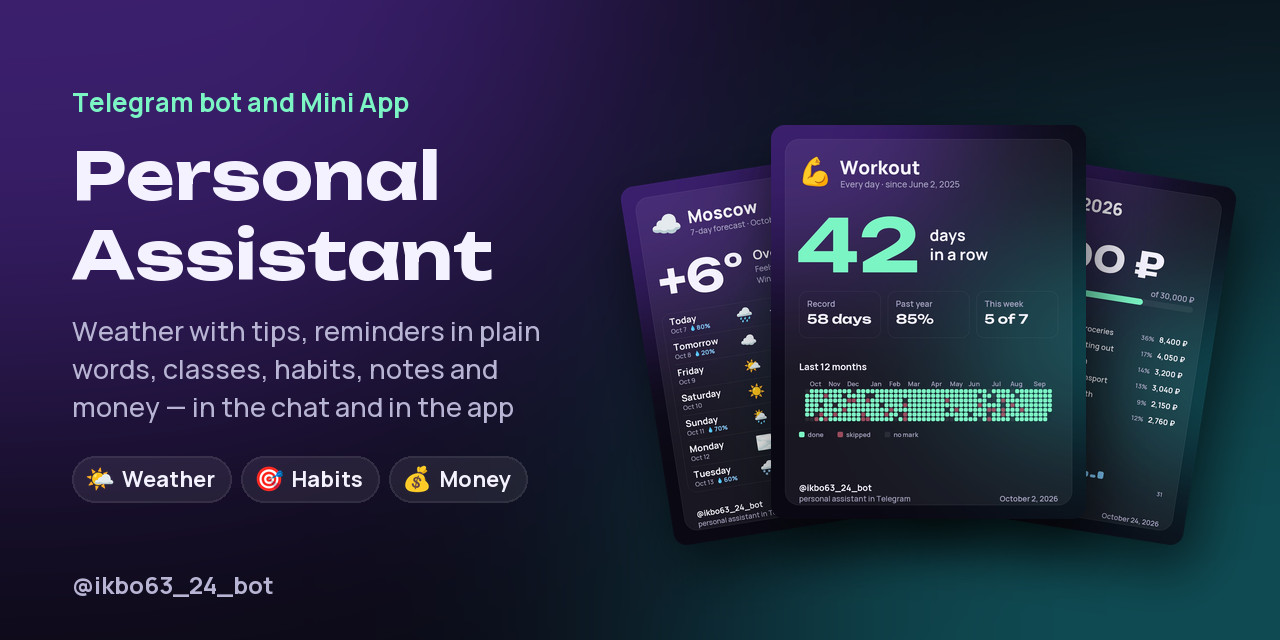
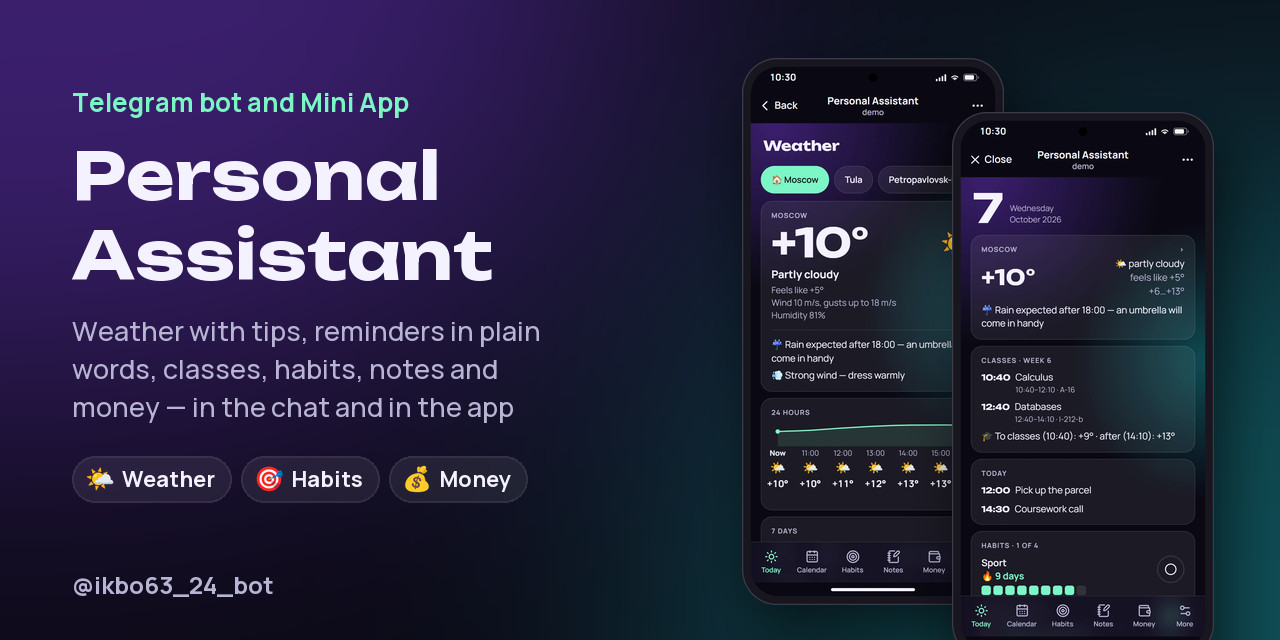
feat: обложка с экранами приложения

Changed region(s): [[0.4688, 0.0938, 0.9688, 1.0], [0.7188, 0.0938, 0.7812, 0.125]]

diff --git a/scripts/cover.py b/scripts/cover.py
@@ -5,10 +5,13 @@ Usage:  uv run python scripts/cover.py --lang ru --out docs/images/cover.jpg
         uv run python scripts/cover.py --favicon webapp/demo/public/favicon.svg
 
 The cover opens the README and is the link preview of the repository and of the demo: what the
-project is, its name, what it does and three chips on the left; on the right, the bot's own
-pictures from docs/images — the week's forecast, a habit card and the month's report — fanned out.
-Only fixed words and the made-up data of those pictures. It is drawn like them, with card_kit's
-fonts, colours and emoji and the BASIC layout, so the same arguments always give the same file.
+project is, its name, what it does and three chips on the left; on the right, two phones with the
+demo's dark screens from docs/images/screens — «Погода» behind, «Сегодня» in front — in the frame
+of the README's grids (variant A). Until those screens are drawn, the bot's own pictures from
+docs/images — the week's forecast, a habit card and the month's report — fan out there instead
+(variant B); `--variant a|b` picks one. Only fixed words and made-up data. It is drawn like the
+bot's pictures, with card_kit's fonts, colours and emoji and the BASIC layout, so the same
+arguments always give the same file.
 
 The icon is a mint speech bubble on the dark «Вечерний», made of rounded rectangles and circles
 only, so the PNG drawn by Pillow and the SVG of the demo's tab are one sign.
@@ -18,6 +21,7 @@ from __future__ import annotations
 
 import argparse
 import io
+import sys
 from dataclasses import dataclass
 from pathlib import Path
 
@@ -25,6 +29,13 @@ from PIL import Image, ImageDraw, ImageFilter, ImageFont
 
 from assistant.core.habit_style import COLORS
 from assistant.core.services import card_kit as kit
+
+# Run as a file, Python looks for imports in scripts/ itself; the phone's frame is in the package
+# scripts.showcase, found from the repository's root.
+if __name__ == "__main__":
+    sys.path.insert(0, str(Path(__file__).resolve().parents[1]))
+
+from scripts.showcase import compose  # noqa: E402
 
 IMAGES = Path(__file__).resolve().parents[1] / "docs" / "images"
 WIDTH, HEIGHT = 1280, 640
@@ -36,8 +47,13 @@ CHIP_LINE = (255, 255, 255, 34)
 SHADOW = (0, 0, 0, 150)
 BOT = "ikbo63_24_bot"
 
-# The bot's pictures, back to front: (name in docs/images, centre, degrees counterclockwise,
-# width). Left to right they follow the chips: the weather, a habit, the money.
+# Variant A: the demo's dark screens in phones, back to front: (screen, top left corner). Each
+# phone is PHONE_WIDTH wide and as tall as its frame makes it; the front one runs off the bottom.
+PHONES = (("weather", (742, 58)), ("today", (952, 112)))
+PHONE_WIDTH = 262
+
+# Variant B: the bot's pictures, back to front: (name in docs/images, centre, degrees
+# counterclockwise, width). Left to right they follow the chips: the weather, a habit, the money.
 FAN = (
     ("forecast-card", (790, 345), 9, 290),
     ("money-report", (1066, 345), -9, 290),
@@ -69,8 +85,8 @@ WORDS = {
     "ru": Words(
         over="Telegram-бот и Mini App",
         title=("Личный", "помощник"),
-        # The no-break space keeps the dash off the start of a line.
-        tagline="Погода с советами, напоминания фразой, пары, привычки, заметки и деньги"
+        # No-break spaces keep the dash off the start of a line and «и» off the end of one.
+        tagline="Погода с советами, напоминания фразой, пары, привычки, заметки и\u00a0деньги"
         "\u00a0— в чате и в приложении",
         chips=(("🌤", "Погода"), ("🎯", "Привычки"), ("💰", "Деньги")),
     ),
@@ -166,22 +182,47 @@ def turned(name: str, angle: float, width: int) -> Image.Image:
     return picture.resize(size, Image.Resampling.LANCZOS)
 
 
+def shadowed(cover: Image.Image, picture: Image.Image, x: int, y: int) -> None:
+    """`picture` laid on the cover at (x, y) over a soft shadow of its own shape."""
+    shadow = Image.new("RGBA", cover.size, (0, 0, 0, 0))
+    shadow.paste(SHADOW, (x + 10, y + 24), picture.getchannel("A"))
+    cover.alpha_composite(shadow.filter(ImageFilter.GaussianBlur(26)))
+    cover.alpha_composite(picture, (x, y))
+
+
 def fanned(cover: Image.Image, lang: str) -> None:
-    """The bot's pictures fanned out on the right, each with a soft shadow."""
-    suffix = "" if lang == "ru" else ".en"
+    """Variant B: the bot's pictures fanned out on the right."""
     for name, (centre_x, centre_y), angle, width in FAN:
-        picture = turned(f"{name}{suffix}.jpg", angle, width)
-        x, y = centre_x - picture.width // 2, centre_y - picture.height // 2
-        shadow = Image.new("RGBA", cover.size, (0, 0, 0, 0))
-        shadow.paste(SHADOW, (x + 10, y + 24), picture.getchannel("A"))
-        cover.alpha_composite(shadow.filter(ImageFilter.GaussianBlur(26)))
-        cover.alpha_composite(picture, (x, y))
+        picture = turned(f"{name}{compose.suffix(lang)}.jpg", angle, width)
+        shadowed(cover, picture, centre_x - picture.width // 2, centre_y - picture.height // 2)
 
 
-def draw(lang: str) -> bytes:
-    """The cover in `lang`, a JPEG with full colour (no chroma subsampling)."""
+def dark_screens(lang: str) -> list[Path]:
+    """The demo's dark screens variant A shows, in the order of PHONES."""
+    return [IMAGES / compose.screen_file(name, "dark", lang) for name, _ in PHONES]
+
+
+def phones(cover: Image.Image, lang: str) -> None:
+    """Variant A: the demo's dark screens on the right, in the phone of the README's grids."""
+    for path, (_, (x, y)) in zip(dark_screens(lang), PHONES, strict=True):
+        with Image.open(path) as screen:
+            phone = compose.shrink(compose.phone(screen, "dark"), PHONE_WIDTH)
+        shadowed(cover, phone, x, y)
+
+
+def default_variant(lang: str) -> str:
+    """A once the demo's dark screens of `lang` are in docs/images, B until then."""
+    return "a" if all(path.exists() for path in dark_screens(lang)) else "b"
+
+
+def draw(lang: str, variant: str | None = None) -> bytes:
+    """The cover in `lang`, a JPEG with full colour (no chroma subsampling): variant `variant`,
+    by default the one default_variant() picks."""
     cover = backdrop()
-    fanned(cover, lang)
+    if (variant or default_variant(lang)) == "a":
+        phones(cover, lang)
+    else:
+        fanned(cover, lang)
     words(cover, lang)
     out = io.BytesIO()
     cover.convert("RGB").save(out, "JPEG", quality=kit.QUALITY, optimize=True, subsampling=0)
@@ -237,24 +278,28 @@ def main(argv: list[str] | None = None) -> int:
     parser.add_argument("--lang", default="ru", choices=("ru", "en"))
     parser.add_argument(
         "--variant",
-        default="b",
         choices=("a", "b"),
-        help="the cover's look: b, the bot's pictures fanned out; "
-        "a, phones with the demo's dark screens",
+        help="the cover's look: a, phones with the demo's dark screens; b, the bot's pictures "
+        "fanned out; by default a once those screens are in docs/images, else b",
     )
     target = parser.add_mutually_exclusive_group(required=True)
     target.add_argument("--out", type=Path, help="the cover, a JPEG")
     target.add_argument("--icon", type=Path, help="the demo's apple-touch-icon, a PNG")
     target.add_argument("--favicon", type=Path, help="the demo's tab icon, an SVG")
     args = parser.parse_args(argv)
-    if args.variant == "a":
-        parser.error("variant a, the phones with the demo's dark screens, is not drawn yet")
+    missing = [screen for screen in dark_screens(args.lang) if not screen.exists()]
+    if args.out and args.variant == "a" and missing:
+        names = ", ".join(screen.relative_to(IMAGES).as_posix() for screen in missing)
+        parser.error(
+            f"variant a shows the demo's dark screens, and docs/images has no {names}: "
+            "uv run python -m scripts.showcase screens draws them"
+        )
     if args.icon:
         path, data = args.icon, icon()
     elif args.favicon:
         path, data = args.favicon, favicon().encode()
     else:
-        path, data = args.out, draw(args.lang)
+        path, data = args.out, draw(args.lang, args.variant)
     path.parent.mkdir(parents=True, exist_ok=True)
     path.write_bytes(data)
     print(path)

diff --git a/tests/unit/test_sample_cover.py b/tests/unit/test_sample_cover.py
@@ -4,8 +4,10 @@ import hashlib
 import io
 from pathlib import Path
 
+import pytest
 from PIL import Image
-from scripts.cover import draw, favicon, icon
+from scripts import cover
+from scripts.cover import default_variant, draw, favicon, icon, main
 
 ROOT = Path(__file__).resolve().parents[2]
 IMAGES = ROOT / "docs" / "images"
@@ -22,12 +24,52 @@ def test_the_covers_fit_a_link_preview() -> None:
 
 
 def test_the_covers_are_what_the_script_draws() -> None:
-    # A change to the cover, to the bot's pictures it shows (docs/images) or to the fonts lands
-    # here: redraw both with scripts/cover.py; the repository's social preview is then uploaded
-    # again by hand.
+    # A change to the cover, to the demo's dark screens it shows (docs/images/screens), to the
+    # phone's frame (scripts/showcase/compose.py) or to the fonts lands here: redraw both with
+    # scripts/cover.py; the repository's social preview is then uploaded again by hand.
     for lang, name in COVERS:
         drawn = hashlib.sha256(draw(lang)).hexdigest()
         assert drawn == hashlib.sha256((IMAGES / name).read_bytes()).hexdigest(), name
+
+
+def test_the_cover_shows_the_demo_once_its_dark_screens_are_there(
+    tmp_path: Path, monkeypatch: pytest.MonkeyPatch
+) -> None:
+    assert (default_variant("ru"), default_variant("en")) == ("a", "a")
+    monkeypatch.setattr(cover, "IMAGES", tmp_path)
+    assert (default_variant("ru"), default_variant("en")) == ("b", "b")
+    (tmp_path / "screens").mkdir()
+    (tmp_path / "screens" / "today.dark.webp").touch()
+    assert default_variant("ru") == "b"  # each phone needs its screen
+    (tmp_path / "screens" / "weather.dark.webp").touch()
+    assert (default_variant("ru"), default_variant("en")) == ("a", "b")
+
+
+def test_variant_a_is_drawn_on_request(tmp_path: Path) -> None:
+    out = tmp_path / "cover.jpg"
+    assert main(["--lang", "en", "--variant", "a", "--out", str(out)]) == 0
+    assert out.read_bytes() == (IMAGES / "cover.en.jpg").read_bytes()
+
+
+def test_variant_a_says_which_screen_it_lacks(
+    tmp_path: Path, monkeypatch: pytest.MonkeyPatch, capsys: pytest.CaptureFixture[str]
+) -> None:
+    monkeypatch.setattr(cover, "IMAGES", tmp_path)
+    out = tmp_path / "cover.jpg"
+    with pytest.raises(SystemExit) as stop:
+        main(["--variant", "a", "--out", str(out)])
+    assert stop.value.code == 2
+    assert "screens/weather.dark.webp" in capsys.readouterr().err
+    assert not out.exists()
+
+
+def test_variant_b_stays_the_fallback() -> None:
+    # The bot's pictures fanned out: what the cover shows while the demo's screens are not drawn.
+    data = draw("ru", "b")
+    assert len(data) < 1_000_000
+    assert data != (IMAGES / "cover.jpg").read_bytes()
+    with Image.open(io.BytesIO(data)) as fan:
+        assert (fan.format, fan.mode, fan.size) == ("JPEG", "RGB", (1280, 640))
 
 
 def test_the_demo_icon_is_what_the_script_draws() -> None:
